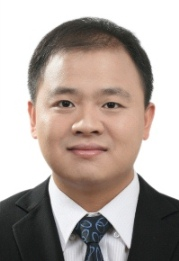
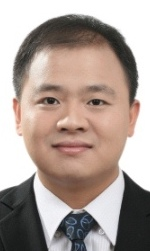
change pics for scaled

diff --git a/_sections/teachers.html b/_sections/teachers.html
@@ -8,11 +8,11 @@ order: 3
 
 
 <img src="{{ 'assets/images/boan.jpg' | relative_url }}" height="200" width="150" style="float: left;margin-right: 30px; margin-bottom: 30px " alt="teacher boan" />
-<p style="text-align:justify; text-justify:inter-ideograph;"><a href="https://www.ntu.edu.sg/home/boan/">安波</a><br />新加坡南洋理工大学校长委员会讲席副教授，于2011年在美国麻省大学Amherst分校获计算机科学博士学位。主要研究领域包括人工智能、多智能体系统、算法博弈论、强化学习、及优化。有100余篇论文发表在人工智能领域的国际顶级会议AAMAS、IJCAI、AAAI、ICAPS、KDD、UAI、EC、WWW、ICLR、NeurIPS、ICML以及著名学术期刊JAAMAS和AIJ。曾获2010年IFAAMAS杰出博士论文奖、 2011年美国海岸警卫队的卓越运营奖、2012年AAMAS最佳应用论文奖、2016年IAAI创新应用论文奖，2012年INFORMS Daniel H. Wagner杰出运筹学应用奖，以及2018年南洋青年研究奖等荣誉。受邀在IJCAI'17上做Early Career Spotlight talk。 获得2017年微软合作AI挑战赛的冠军。入选2018年度IEEE Intelligent Systems的“人工智能10大新星”(AI's 10 to Watch)。他是JAIR编委会成员以及JAAMAS, IEEE Intelligent Systems, 和ACM TIST的副主编。他是AAMAS'20的程序委员会主席。<br />
+<p style="text-align:justify; text-justify:inter-ideograph;"><a href="https://www.ntu.edu.sg/home/boan/">安波</a><br />新加坡南洋理工大学校长委员会讲席副教授，于2011年在美国麻省大学Amherst分校获计算机科学博士学位。主要研究领域包括人工智能、多智能体系统、算法博弈论、强化学习、及优化。有100余篇论文发表在人工智能领域的国际顶级会议AAMAS、IJCAI、AAAI、ICAPS、KDD、UAI、EC、WWW、ICLR、NeurIPS、ICML以及著名学术期刊JAAMAS和AIJ。曾获2010年IFAAMAS杰出博士论文奖、 2011年美国海岸警卫队的卓越运营奖、2012年AAMAS最佳应用论文奖、2016年IAAI创新应用论文奖，2012年INFORMS Daniel H. Wagner杰出运筹学应用奖，以及2018年南洋青年研究奖等荣誉。受邀在IJCAI'17上做Early Career Spotlight talk。 获得2017年微软合作AI挑战赛的冠军。入选2018年度IEEE Intelligent Systems的“人工智能10大新星”(AI's 10 to Watch)。他是JAIR编委会成员以及JAAMAS, IEEE Intelligent Systems, 和ACM TIST的副主编。他是AAMAS'20的程序委员会主席。
+<br />
 
 <img src="{{ 'assets/images/tmp.jpg' | relative_url }}" height="200" width="150" style="float: left;margin-right: 30px; margin-bottom: 30px " alt="teacher Haitham" />
-<p style="text-align:justify; text-justify:inter-ideograph;"><a href="">Haitham Bou Amma</a><br />
-introduction.introduction.introduction.introduction.introduction.introduction.introduction.introduction.introduction.introduction.introduction.introduction.introduction.introduction.</p>
+<p style="text-align:justify; text-justify:inter-ideograph;"><a href="">Haitham Bou Amma</a><br />introduction.introduction.introduction.introduction.introduction.introduction.introduction.introduction.introduction.introduction.introduction.introduction.introduction.introduction.</p>
 <br />
 
 <img src="{{ 'assets/images/hjianye.jpeg' | relative_url }}" height="200" width="150" style="float: left;margin-right: 30px; margin-bottom: 30px " alt="teacher haojianye" />
@@ -33,7 +33,7 @@ introduction.introduction.introduction.introduction.introduction.introduction.in
 
 <img src="{{ 'assets/images/yaodong.jpg' | relative_url }}" height="200" width="150" style="float: left;margin-right: 30px; margin-bottom: 30px " alt="teacher yangyaodong" />
 <p style="text-align:justify; text-justify:inter-ideograph;"><a href="https://www.yangyaodong.com/">杨耀东</a><br />
-机器学习研究员，专注于强化学习，多主体学习和贝叶斯推理。 目前担任华为诺亚方舟多智能体学习技术负责人，负责开展多智能体系统及其在自动驾驶中的应用研究。 加入华为之前，他曾是美国国际集团（AIG）科学部的高级经理，领导了一个机器学习研究团队，研究针对保险问题的人工智能技术方法创新。 2018年，他被授予英国机器学习/人工智能杰出人才。。</p>
+机器学习研究员，专注于强化学习，多主体学习和贝叶斯推理。 目前担任华为诺亚方舟多智能体学习技术负责人，负责开展多智能体系统及其在自动驾驶中的应用研究。 加入华为之前，他曾是美国国际集团（AIG）科学部的高级经理，领导了一个机器学习研究团队，研究针对保险问题的人工智能技术方法创新。 2018年，他被授予英国机器学习/人工智能杰出人才。</p>
 <br />
 
 <img src="{{ 'assets/images/yuyang.jpg' | relative_url }}" height="200" width="150" style="float: left;margin-right: 30px; margin-bottom: 30px " alt="teacher yuyang" />
